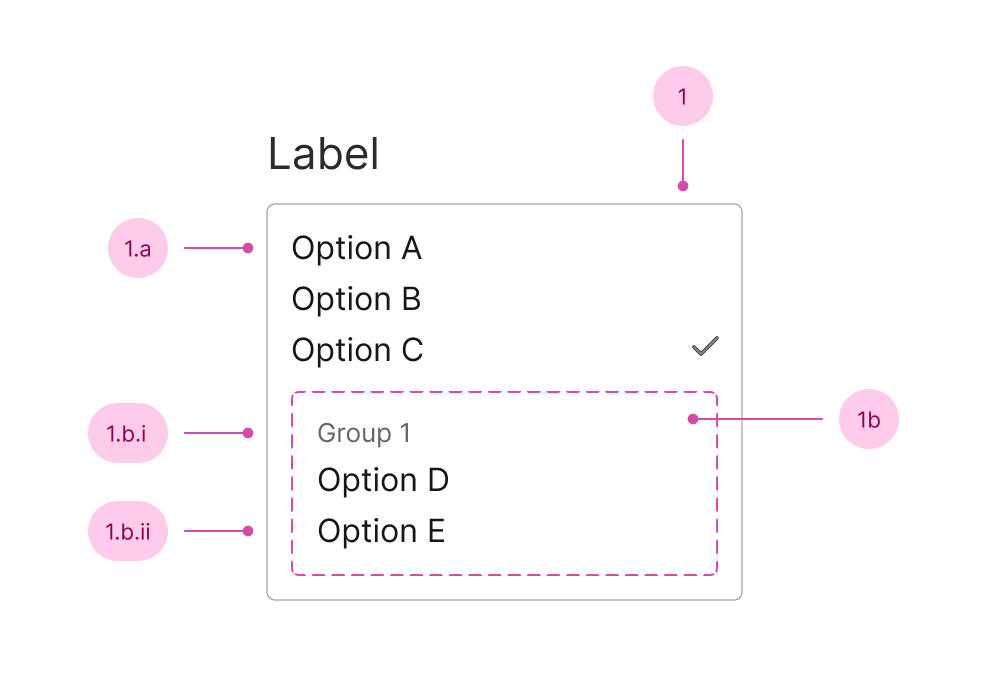
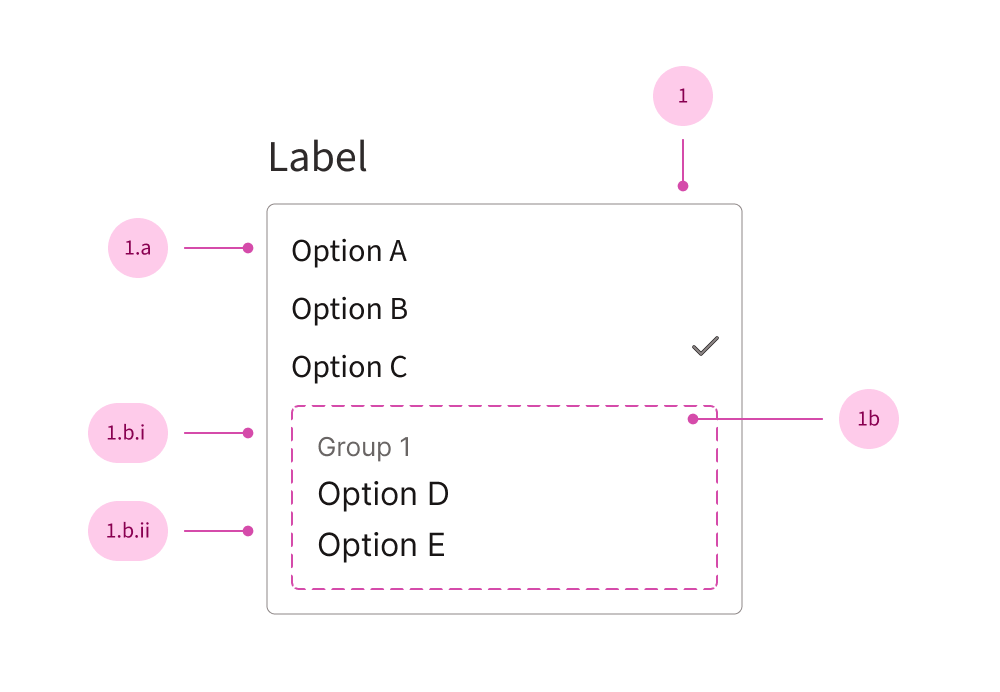
Switch heading and body font

diff --git a/packages/theme/src/theme/typography.scss b/packages/theme/src/theme/typography.scss
@@ -17,25 +17,25 @@
   --line-height-s: calc(var(--line-height-scale) * 1.65);
 
   --font-size-m: calc(var(--font-size-scale) * 1.125rem);
-  --line-height-m: calc(var(--line-height-scale) * 1.65);
+  --line-height-m: calc(var(--line-height-scale) * 1.625);
 
   --font-size-l: calc(var(--font-size-scale) * 1.25rem);
-  --line-height-l: calc(var(--line-height-scale) * 1.6);
+  --line-height-l: calc(var(--line-height-scale) * 1.5);
 
   --font-size-xl: calc(var(--font-size-scale) * 1.5rem);
-  --line-height-xl: calc(var(--line-height-scale) * 1.45);
+  --line-height-xl: calc(var(--line-height-scale) * 1.4);
 
   --font-size-xxl: calc(var(--font-size-scale) * 1.875rem);
-  --line-height-xxl: calc(var(--line-height-scale) * 1.45);
+  --line-height-xxl: calc(var(--line-height-scale) * 1.4);
 
-  --font-size-xxxl: calc(var(--font-size-scale) * 2.25rem);
-  --line-height-xxxl: calc(var(--line-height-scale) * 1.4);
+  --font-size-xxxl: calc(var(--font-size-scale) * 2.375rem);
+  --line-height-xxxl: calc(var(--line-height-scale) * 1.3);
 
-  --font-size-xxxxl: calc(var(--font-size-scale) * 3rem);
-  --line-height-xxxxl: calc(var(--line-height-scale) * 1.35);
+  --font-size-xxxxl: calc(var(--font-size-scale) * 3.25rem);
+  --line-height-xxxxl: calc(var(--line-height-scale) * 1.2);
 
-  --font-size-xxxxxl: calc(var(--font-size-scale) * 5.25rem);
-  --line-height-xxxxxl: calc(var(--line-height-scale) * 1.05);
+  --font-size-xxxxxl: calc(var(--font-size-scale) * 5rem);
+  --line-height-xxxxxl: calc(var(--line-height-scale) * 1.2);
 }
 
 :where(html) {
@@ -127,7 +127,7 @@
   }
 
   :where(li + li) {
-    margin-block-start: calc(var(--prose-flow-scale) * 0.375em);
+    margin-block-start: calc(var(--prose-flow-scale) * 0.425em);
   }
 
   :where(li > ul, li > ol) {
@@ -147,40 +147,28 @@
     margin-inline: calc(var(--prose-flow-scale) * 2.8em);
   }
 
-  :where(* + h2),
-  :where(* + h3),
-  :where(* + h4) {
-    margin-block-start: calc(var(--prose-flow-scale) * 1.25em);
+  :where(:is(h1, .xxxxxl, h2, .xxxxl, h3, .xxxl, h4, .xxl, h5, .xl, h6, .l):is(* + *)) {
+    margin-block-start: calc(var(--prose-flow-scale) * 1.625em);
   }
 
-  :where(* + h5) {
-    margin-block-start: calc(var(--prose-flow-scale) * 0.985em);
+  :where(:is(h1, .xxxxxl, h2, .xxxxl, h3, .xxxl) + *) {
+    margin-block-start: calc(var(--prose-flow-scale) * 1.5em);
   }
 
-  :where(* + h6) {
-    margin-block-start: calc(var(--prose-flow-scale) * 0.915em);
+  :where(:is(h5, .xl, h6, .l) + *) {
+    margin-block-start: calc(var(--prose-flow-scale) * 1em);
   }
 
-  :where(h1 + *),
-  :where(h2 + *),
-  :where(h3 + *),
-  :where(h4 + *) {
-    margin-block-start: calc(var(--prose-flow-scale) * 1.125em);
+  :where(h1, .xxxxxl, h2, .xxxxl, h3, .xxxl, h4, .xxl, h5, .xl, h6, .l)
+    + :where(h2, .xxxxl, h3, .xxxl, h4, .xxl, h5, .xl, h6, .l) {
+    margin-block-start: calc(var(--prose-flow-scale) * 0.725em);
   }
 
-  :where(h5 + *),
-  :where(h6 + *) {
-    margin-block-start: calc(var(--prose-flow-scale) * 0.875em);
+  :where(h2, .xxxxl, h3) + :where(h3, .xxxl, h4, .xxl) {
+    margin-block-start: calc(var(--prose-flow-scale) * 0.625em);
   }
 
-  :where(h1 + h2),
-  :where(h2 + h3) {
-    margin-block-start: calc(var(--prose-flow-scale) * 0.4em);
-  }
-
-  :where(h3 + h4),
-  :where(h4 + h5),
-  :where(h5 + h6) {
-    margin-block-start: calc(var(--prose-flow-scale) * 0.55em);
+  :where(h1, .xxxxxl) + :where(h2, .xxxxl) {
+    margin-block-start: calc(var(--prose-flow-scale) * 0.5em);
   }
 }

diff --git a/docs/do11y/style/typography.scss b/docs/do11y/style/typography.scss
@@ -1,26 +1,19 @@
-@import "https://fonts.googleapis.com/css2?family=Atkinson+Hyperlegible+Next:ital,wght@0,200..800;1,200..800&family=JetBrains+Mono:ital,wght@0,100..800;1,100..800&family=Signika:wght@300..700&display=swap";
+@import "https://fonts.googleapis.com/css2?family=JetBrains+Mono:ital,wght@0,100..800;1,100..800&family=Public+Sans:ital,wght@0,100..900;1,100..900&family=Source+Sans+3:ital,wght@0,200..900;1,200..900&display=swap";
 
 :root {
   --font-weight-normal: 400;
   --font-weight-medium: 500;
-  --font-weight-bold: 700;
+  --font-weight-bold: 650;
 
-  --font-family-heading: "Signika", sans-serif;
-  --font-family-body: "Atkinson Hyperlegible Next", sans-serif;
+  --font-family-heading: "Public Sans", sans-serif;
+  --font-family-body: "Source Sans 3", sans-serif;
   --font-family-mono: "JetBrains Mono", monospace;
 }
 
 :where(h1, .h1, h2, .h2, h3, .h3, h4, .h4, h5, .h5, h6, .h6),
 .heading-font {
   font-family: var(--font-family-heading);
-}
-
-:where(h1) {
   font-weight: var(--font-weight-medium);
-}
-
-:where(h2, h3, h4, h5, h6) {
-  font-weight: var(--font-weight-normal);
 }
 
 :where(b),

diff --git a/docs/do11y/style/block.scss b/docs/do11y/style/block.scss
@@ -26,7 +26,7 @@ h1:not([class]) {
 
     transform-origin: center;
     inset-inline-start: -0.75em;
-    inset-block-start: -0.65em;
+    inset-block-start: -0.575em;
 
     background-color: var(--pink-40);
 
@@ -84,7 +84,7 @@ pre {
   padding: var(--spacing-xl);
 
   font-size: var(--font-size-smaller);
-  line-height: var(--line-height-m);
+  line-height: var(--line-height-l);
 
   &:not(.code-block pre) {
     border-radius: var(--border-radius);
@@ -203,8 +203,6 @@ ol:not([class]) {
 }
 
 table {
-  --prose-flow-scale: 0.8;
-
   border-spacing: 0;
   border: var(--border);
   border-radius: var(--border-radius);
@@ -257,7 +255,7 @@ table.large {
   }
 
   th {
-    padding: var(--spacing-s) var(--spacing-l);
+    padding: var(--spacing-m) var(--spacing-l);
   }
 
   th:not(:last-child),

diff --git a/docs/do11y/layout/Footer.vue b/docs/do11y/layout/Footer.vue
@@ -20,8 +20,8 @@
     <br />
 
     Fonts used:
-    <a class="heading-font" href="https://fonts.bunny.net/family/signika">Signika</a> by Anna Giedryś for headings,
-    <a href="https://fonts.bunny.net/family/atkinson-hyperlegible-next">Atkinson Hyperlegible Next</a> by The Braille Institute for body text
+    <a class="heading-font" href="https://fonts.bunny.net/family/public-sans">Public Sans</a> by The United States Web Design System for headings,
+    <a href="https://fonts.bunny.net/family/source-sans-3">Source Sans 3</a> by Paul D. Hunt for body text
     and <a class="mono-font" href="https://fonts.bunny.net/family/jetbrains-mono">JetBrains Mono</a> by JetBrains for code snippets.
   </footer>
 </template>

diff --git a/docs/do11y/components/meta/Do11yMetaProps.vue b/docs/do11y/components/meta/Do11yMetaProps.vue
@@ -7,7 +7,7 @@
   >
     <template #prop="{ row, small }">
       <!-- prettier-ignore -->
-      <div :class="c('title')">
+      <div :class="['heading-font', 'l']">
         {{ row.name }}<span :class="row.required ? 'required' : small ? 'faded-green' : 'faded'">{{ row.required ? "*" : "?" }}</span>
       </div>
 
@@ -84,14 +84,6 @@ const splitTypes = (type: string) => {
   }
 }
 
-table .meta-props__title {
-  font-size: var(--font-size-l);
-  line-height: var(--line-height-l);
-
-  font-family: var(--font-family-heading);
-}
-
-.meta-props__description,
 .meta-props__necessity {
   margin-block-start: var(--spacing-xs);
 }

diff --git a/docs/do11y/pages/Sandbox.vue b/docs/do11y/pages/Sandbox.vue
@@ -8,7 +8,7 @@
 @use "@typeach/theme";
 @use "@typeach/theme/reset";
 
-@import "https://fonts.bunny.net/css2?family=Atkinson+Hyperlegible+Next:ital,wght@0,200..800;1,200..800&display=swap";
+@import "https://fonts.googleapis.com/css2?family=Source+Sans+3:ital,wght@0,200..900;1,200..900&display=swap";
 
 html {
   block-size: 100%;
@@ -21,7 +21,7 @@ body {
 
   display: grid;
   place-content: center;
-  font-family: "Atkinson Hyperlegible Next", sans-serif;
+  font-family: "Source Sans 3", sans-serif;
 
   padding-inline: var(--spacing-m);
 }

diff --git a/docs/do11y/components/Do11yDoDont.vue b/docs/do11y/components/Do11yDoDont.vue
@@ -132,8 +132,6 @@ const c = useBemClass("usage-guide");
   h2,
   h3,
   h4 {
-    margin-inline-start: var(--spacing-xxs);
-
     font-size: var(--font-size-xl);
     line-height: var(--line-height-xl);
     color: var(--usage-guide-title-color);

diff --git a/packages/core/src/components/button/__docs__/Button.guidelines.md b/packages/core/src/components/button/__docs__/Button.guidelines.md
@@ -1,9 +1,3 @@
-<script setup>
-  import { useRouter } from 'vue-router';
-
-  const router = useRouter();
-</script>
-
 ## Anatomy
 
 <img alt="" class="anatomy-illustration" src="./images/button-anatomy.png" />
@@ -41,7 +35,7 @@ However, if you _must_..
 
 <template v-slot:do>
 
-<img :src="`${router.options.history.base}/guidelines/button-disabled-good.png`" alt="" />
+<img src="./images/button-disabled-good.png" alt="" />
 
 Use supporting text that stays visible when relevant to explain _why_ the button is disabled.
 
@@ -49,7 +43,7 @@ Use supporting text that stays visible when relevant to explain _why_ the button
 
 <template v-slot:dont>
 
-<img :src="`${router.options.history.base}/guidelines/button-disabled-bad.png`" alt="" />
+<img src="./images/button-disabled-bad.png" alt="" />
 
 Use a hidden tooltip to explain why the button is disabled.
 
